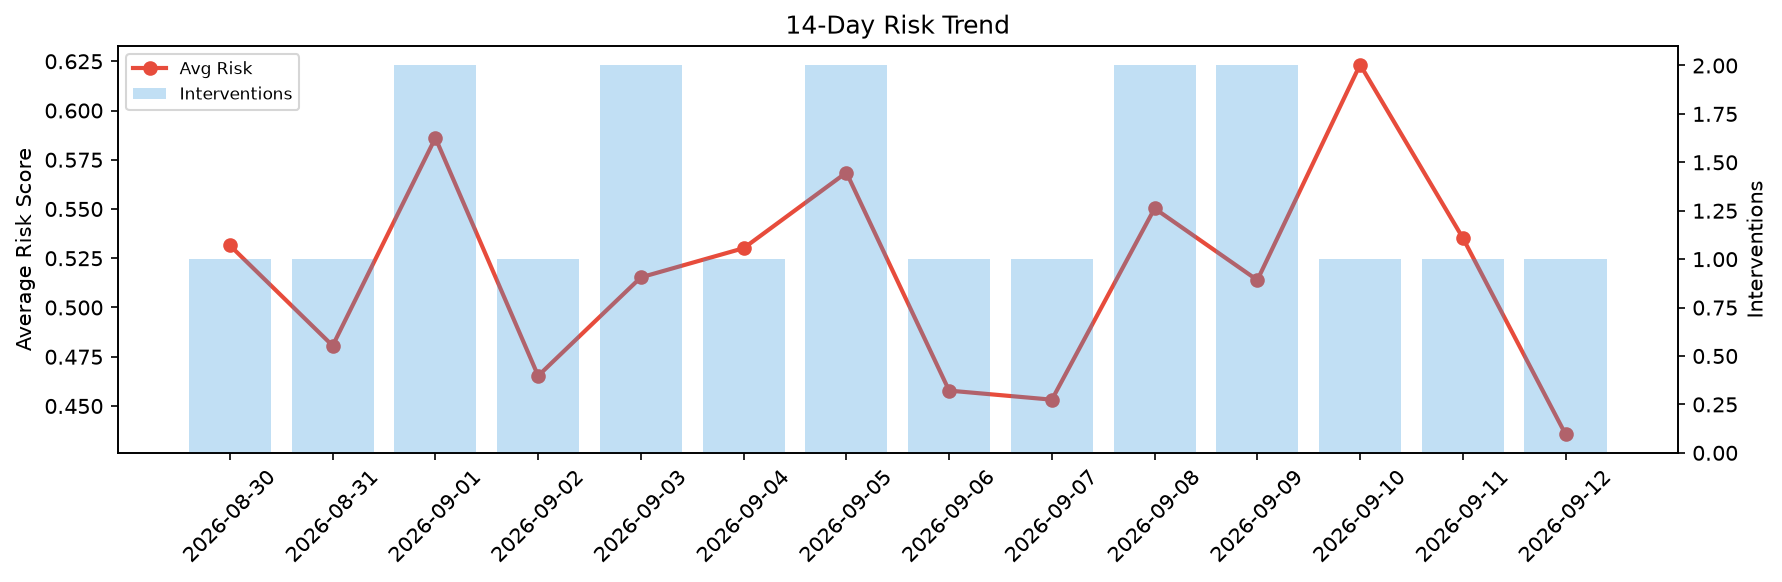
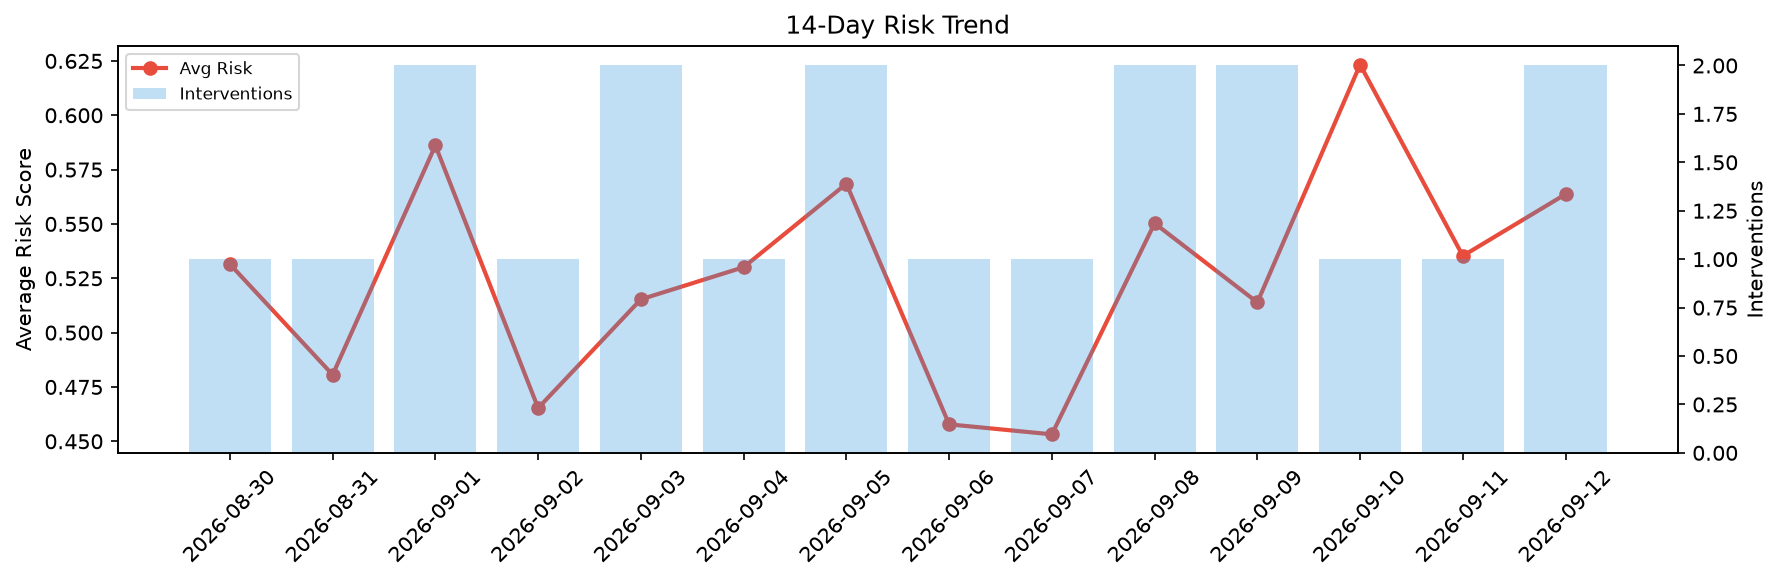
agent-improvement: daily cycle 2026-09-12T22:15

diff --git a/logs/2026-09-12.md b/logs/2026-09-12.md
@@ -1,6 +1,6 @@
 # Agent Improvement Report — 2026-09-12
 
-**Cycle ID:** `f6b0aa3a` | **Avg Risk:** 0.4356 | **Interventions:** 1/4
+**Cycle ID:** `25da67fd` | **Avg Risk:** 0.5637 | **Interventions:** 2/4
 
 ![Dashboard](2026-09-12_dashboard.png)
 
@@ -10,18 +10,18 @@
 
 | Domain | Risk Score | Decision | Alerts |
 |--------|-----------|----------|--------|
-| code_review | 0.4023 | monitor | none |
-| incident_response | 0.367 | monitor | none |
-| data_pipeline | 0.6308 | intervene | freshness, volume_anomaly |
-| deployment | 0.3421 | monitor | rollback_rate |
+| code_review | 0.3615 | monitor | none |
+| incident_response | 0.6626 | intervene | blast_radius |
+| data_pipeline | 0.3552 | monitor | none |
+| deployment | 0.8755 | intervene | rollback_rate, canary_error |
 
 ## Delta vs Yesterday
 
 | Domain | Today | Yesterday | Change |
 |--------|-------|-----------|--------|
-| code_review | 0.4023 | 0.6364 | 📉 -36.8% |
-| incident_response | 0.367 | 0.5353 | 📉 -31.4% |
-| data_pipeline | 0.6308 | 0.5589 | 📈 12.9% |
-| deployment | 0.3421 | 0.4106 | 📉 -16.7% |
+| code_review | 0.3615 | 0.6364 | 📉 -43.2% |
+| incident_response | 0.6626 | 0.5353 | 📈 23.8% |
+| data_pipeline | 0.3552 | 0.5589 | 📉 -36.4% |
+| deployment | 0.8755 | 0.4106 | 📈 113.2% |
 
-**Refinement:** `{'adjustment': 'maintain', 'trend': 'improving', 'window': 4}`
+**Refinement:** `{'adjustment': 'tighten_thresholds', 'trend': 'degrading', 'window': 4}`
